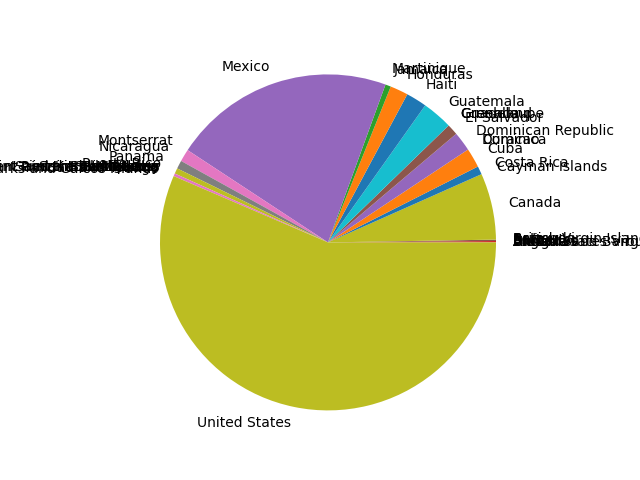
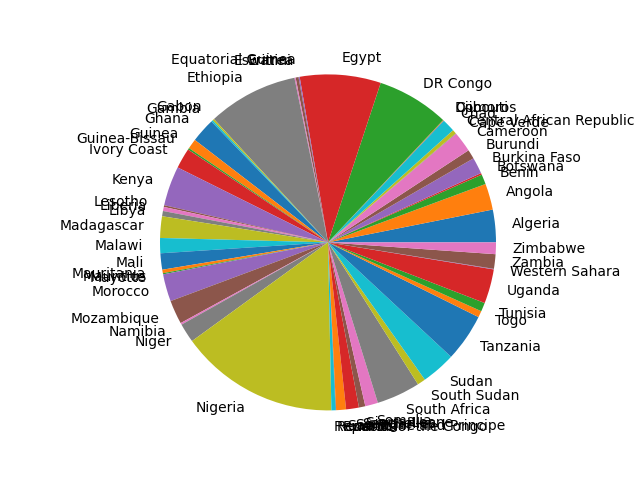
Curso Terminado

diff --git a/app/main.py b/app/main.py
@@ -1,16 +1,23 @@
 import utils 
 import read_csv
 import charts
+import pandas as pd  # type: ignore
 
 def run():
-  data = read_csv.read_csv('data.csv')
+  '''
   data = list(filter(lambda item: item['Continent']=='North America', data))
-
   countries = list(map(lambda x: x['Country/Territory'], data))
   percentages = list(map(lambda x: x['World Population Percentage'], data))
-  charts.generate_pie_chart(countries, percentages)
-  
+  '''
 
+  df = pd.read_csv('data.csv')
+  df = df[df['Continent']=='Africa']
+
+  countries = df['Country/Territory'].values
+  percentages = list(df['World Population Percentage'])
+  charts.generate_pie_chart(countries, percentages)
+
+  data = read_csv.read_csv('data.csv')
   country = input('Digite el pais por favor  =>: ')
   print(country)
   

diff --git a/web-server/main.py b/web-server/main.py
@@ -1,0 +1,22 @@
+import store
+from fastapi import FastAPI  # type: ignore
+from fastapi.responses import HTMLResponse # type: ignore
+
+app = FastAPI()
+
+@app.get("/")
+def get_list():
+    return [1, 2, 3]
+
+@app.get("/contact", response_class=HTMLResponse)
+def get_name():
+    return """
+    <h1>Hola soy una pagina web</h1>
+    <p>Esta es una pagina web de prueba</p>
+    """
+
+def run():
+    store.get_categories()
+
+if __name__ == '__main__':
+    run()

diff --git a/web-server/store.py b/web-server/store.py
@@ -1,0 +1,10 @@
+import requests # type: ignore
+
+def get_categories():
+    response = requests.get('https://api.escuelajs.co/api/v1/categories')
+    print(response.status_code)
+    print(response.text)
+    print(type(response.text))
+    categories = response.json()
+    for category in categories:
+        print(category['name'])

diff --git a/app/charts.py b/app/charts.py
@@ -12,7 +12,7 @@ def generate_pie_chart(labels, values):
   fig, ax = plt.subplots()
   ax.pie(values, labels=labels)
   ax.axis('equal')
-  plt.savefig('pie.png')
+  plt.savefig('chart_pie_final.png')
   plt.close()
   
 
